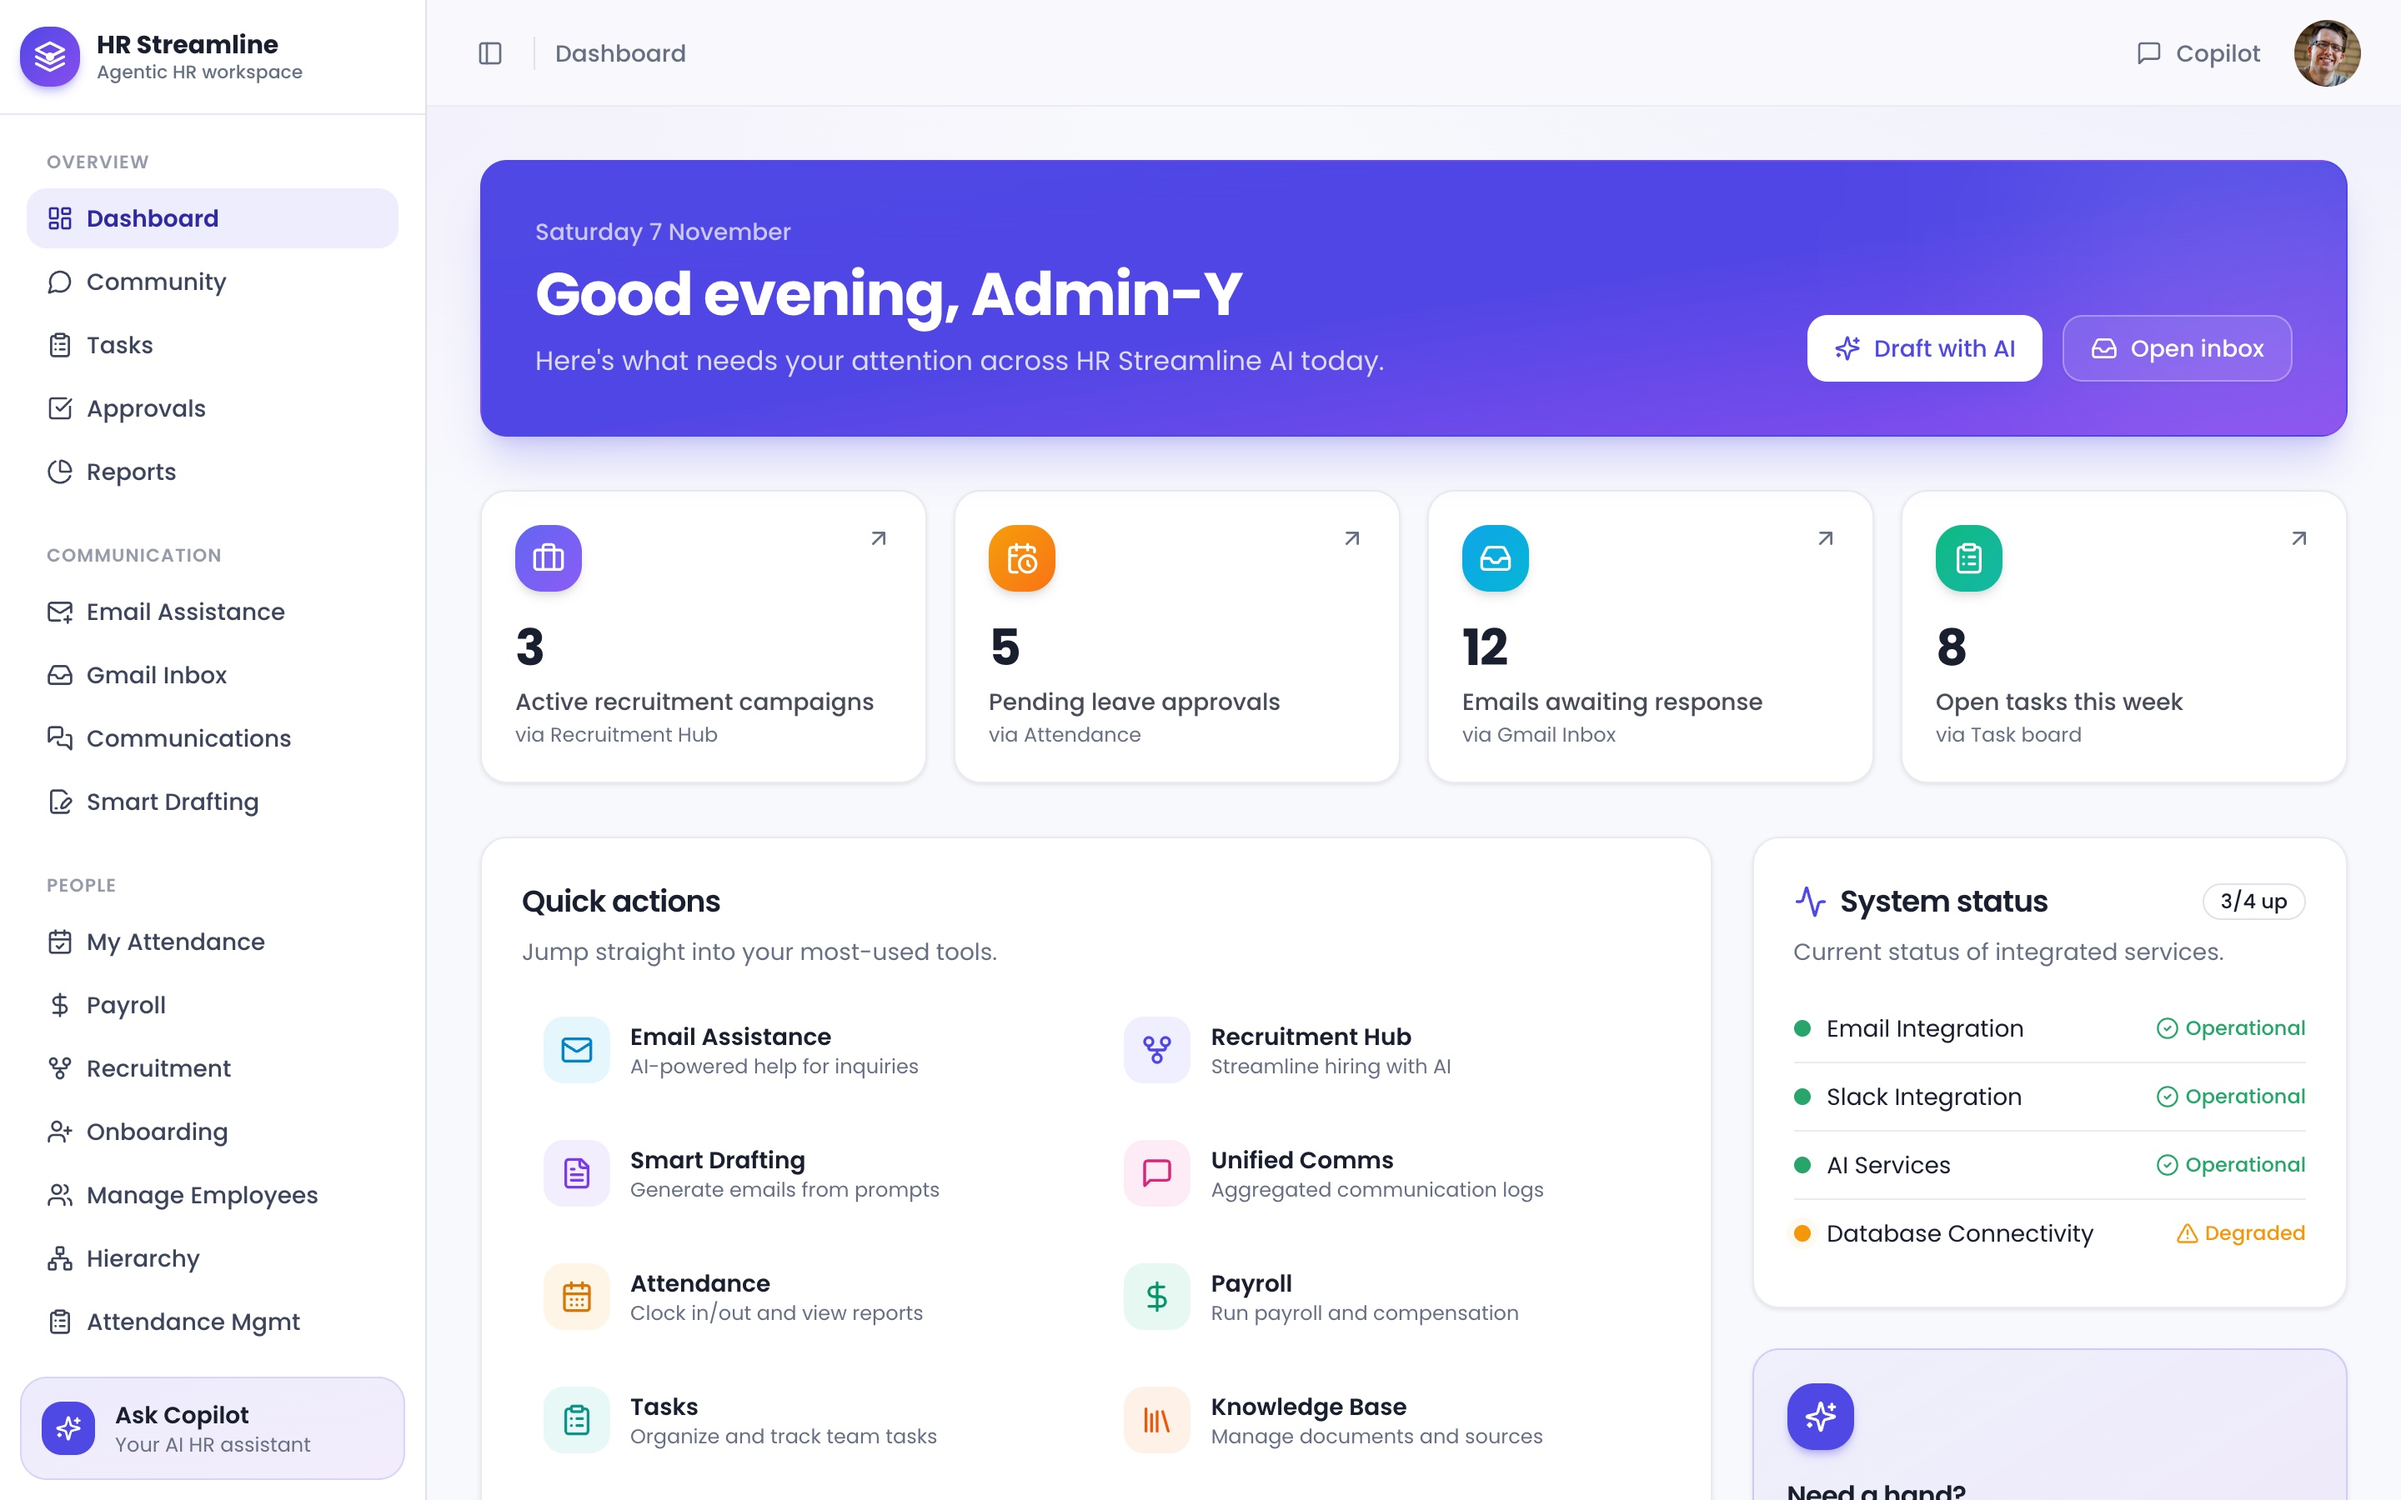
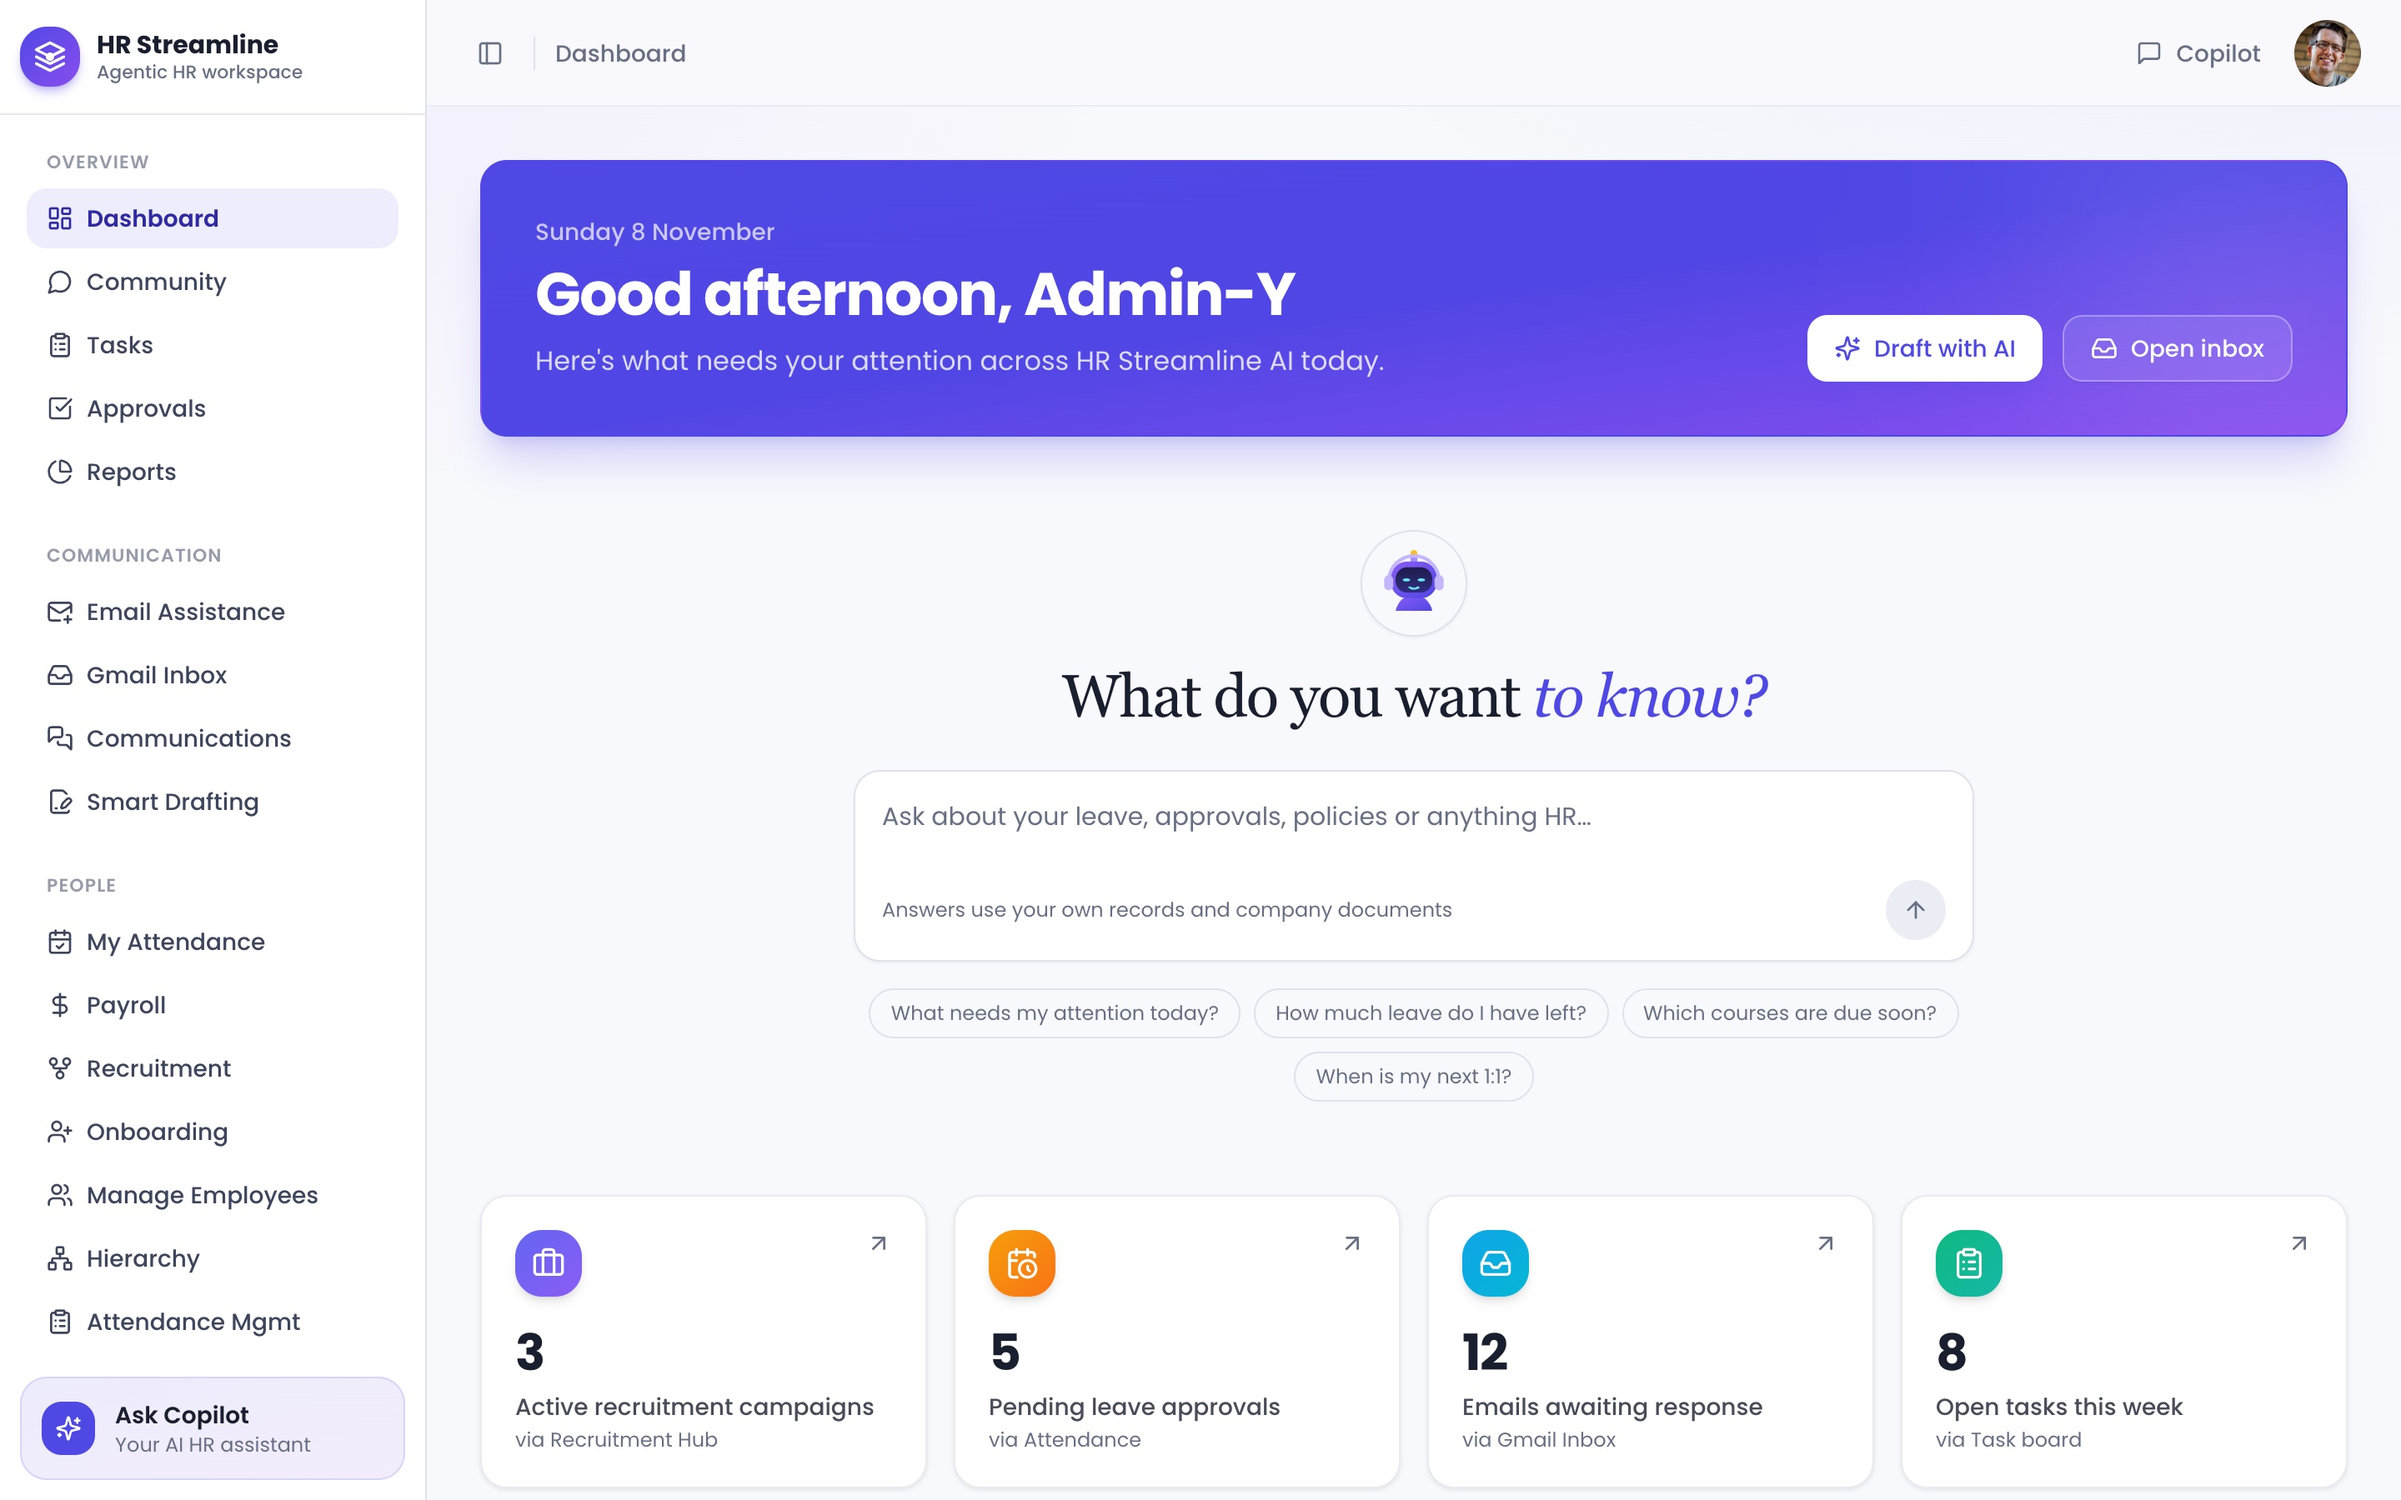
Add dashboard Copilot entry point and silver sidekick

diff --git a/src/app/dashboard/components/ask-copilot.tsx b/src/app/dashboard/components/ask-copilot.tsx
@@ -1,0 +1,79 @@
+'use client';
+
+import { useState, type KeyboardEvent } from 'react';
+import { ArrowUp } from 'lucide-react';
+import CopilotMascot from '@/components/copilot-mascot';
+import { COPILOT_STARTERS, askCopilot } from '@/lib/copilot-events';
+import { cn } from '@/lib/utils';
+
+/** The dashboard's question box: type a question (or pick a starter) and Copilot answers in its panel. */
+export default function AskCopilot() {
+  const [question, setQuestion] = useState('');
+  const send = (text: string) => {
+    const trimmed = text.trim();
+    if (!trimmed) return;
+    askCopilot(trimmed);
+    setQuestion('');
+  };
+  const onKey = (event: KeyboardEvent<HTMLTextAreaElement>) => {
+    if (event.key === 'Enter' && !event.shiftKey) {
+      event.preventDefault();
+      send(question);
+    }
+  };
+
+  return (
+    <section id="dashboard-ask-copilot" aria-labelledby="dashboard-ask-copilot-title" className="flex flex-col items-center px-2 py-4 text-center sm:py-6">
+      <span className="flex h-16 w-16 items-center justify-center rounded-full border bg-background shadow-sm">
+        <CopilotMascot className="h-14 w-11" />
+      </span>
+      <h2 id="dashboard-ask-copilot-title" className="mt-4 font-serif text-3xl font-normal tracking-tight text-foreground sm:text-4xl">
+        What do you want <em className="text-primary">to know?</em>
+      </h2>
+      <form
+        className="mt-6 w-full max-w-2xl rounded-2xl border bg-card text-left shadow-sm transition-shadow focus-within:border-primary/40 focus-within:shadow-lg focus-within:shadow-primary/10"
+        onSubmit={(event) => {
+          event.preventDefault();
+          send(question);
+        }}
+      >
+        <label htmlFor="dashboard-ask-copilot-input" className="sr-only">Ask Copilot</label>
+        <textarea
+          id="dashboard-ask-copilot-input"
+          rows={2}
+          maxLength={1000}
+          value={question}
+          onChange={(event) => setQuestion(event.target.value)}
+          onKeyDown={onKey}
+          placeholder="Ask about your leave, approvals, policies or anything HR…"
+          className="block w-full resize-none rounded-t-2xl bg-transparent px-4 pt-4 text-[15px] text-foreground placeholder:text-muted-foreground focus:outline-none"
+        />
+        <div className="flex items-center justify-between gap-3 px-4 pb-3 pt-1">
+          <p className="text-xs text-muted-foreground">Answers use your own records and company documents</p>
+          <button
+            id="dashboard-ask-copilot-send"
+            type="submit"
+            aria-label="Ask Copilot"
+            disabled={!question.trim()}
+            className={cn('flex h-9 w-9 shrink-0 items-center justify-center rounded-full transition-colors', question.trim() ? 'bg-primary text-primary-foreground hover:bg-primary/90' : 'bg-muted text-muted-foreground')}
+          >
+            <ArrowUp className="h-4 w-4" />
+          </button>
+        </div>
+      </form>
+      <div className="mt-4 flex max-w-2xl flex-wrap justify-center gap-2">
+        {COPILOT_STARTERS.map((starter, index) => (
+          <button
+            key={starter}
+            id={`dashboard-ask-copilot-starter-${index}`}
+            type="button"
+            onClick={() => send(starter)}
+            className="rounded-full border bg-background/60 px-3 py-1.5 text-xs text-muted-foreground transition-colors hover:border-primary/40 hover:text-foreground"
+          >
+            {starter}
+          </button>
+        ))}
+      </div>
+    </section>
+  );
+}

diff --git a/src/components/copilot-mascot.tsx b/src/components/copilot-mascot.tsx
@@ -1,0 +1,56 @@
+import { useId } from 'react';
+import { cn } from '@/lib/utils';
+
+/** The silver HR sidekick from the landing page, sized for Copilot entry points. */
+export default function CopilotMascot({ className }: { className?: string }) {
+  const id = useId();
+  const silver = `${id}-silver`;
+  const body = `${id}-body`;
+  const visor = `${id}-visor`;
+  const glow = `${id}-glow`;
+
+  return (
+    <svg viewBox="0 0 200 270" role="img" aria-label="HR Copilot" className={cn('h-12 w-12', className)}>
+      <defs>
+        <linearGradient id={silver} x1="0" y1="0" x2="1" y2="1">
+          <stop offset="0" stopColor="#ffffff" />
+          <stop offset="0.5" stopColor="#d8daea" />
+          <stop offset="1" stopColor="#969db9" />
+        </linearGradient>
+        <linearGradient id={body} x1="0" y1="0" x2="1" y2="1">
+          <stop offset="0" stopColor="#fafaff" />
+          <stop offset="0.65" stopColor="#c6cbdf" />
+          <stop offset="1" stopColor="#8b95b2" />
+        </linearGradient>
+        <linearGradient id={visor} x1="0" y1="0" x2="1" y2="1">
+          <stop offset="0" stopColor="#252a42" />
+          <stop offset="1" stopColor="#080b17" />
+        </linearGradient>
+        <filter id={glow} x="-150%" y="-100%" width="400%" height="300%">
+          <feGaussianBlur stdDeviation="4" />
+        </filter>
+      </defs>
+      <path d="M100 15v25" stroke="#c4c9dc" strokeWidth="5" />
+      <circle cx="100" cy="12" r="6.5" fill="#b7a6ff" />
+      <rect x="18" y="35" width="164" height="126" rx="48" fill={`url(#${silver})`} />
+      <rect x="33" y="55" width="134" height="74" rx="28" fill={`url(#${visor})`} />
+      <g fill="#a5b4fc" filter={`url(#${glow})`}>
+        <rect x="75" y="81" width="10" height="21" rx="5" />
+        <rect x="114" y="81" width="10" height="21" rx="5" />
+      </g>
+      <g fill="#c4d4ff">
+        <rect x="75" y="81" width="10" height="21" rx="5" />
+        <rect x="114" y="81" width="10" height="21" rx="5" />
+      </g>
+      <rect x="90" y="138" width="20" height="5" rx="2.5" fill="#858da9" />
+      <rect x="37" y="168" width="126" height="88" rx="30" fill={`url(#${body})`} />
+      <rect x="4" y="178" width="23" height="62" rx="12" transform="rotate(15 15.5 209)" fill={`url(#${silver})`} />
+      <rect x="173" y="178" width="23" height="62" rx="12" transform="rotate(-15 184.5 209)" fill={`url(#${silver})`} />
+      <g transform="translate(87 199) scale(1.08)" fill="none" stroke="#5e5790" strokeWidth="2" strokeLinecap="round" strokeLinejoin="round">
+        <path d="m12 3 1.9 5.8a2 2 0 0 0 1.3 1.3L21 12l-5.8 1.9a2 2 0 0 0-1.3 1.3L12 21l-1.9-5.8a2 2 0 0 0-1.3-1.3L3 12l5.8-1.9a2 2 0 0 0 1.3-1.3L12 3Z" />
+        <path d="M20 2v4m-2-2h4M4 18v3m-1.5-1.5h3" />
+      </g>
+      <rect x="90" y="241" width="20" height="3" rx="1.5" fill="#5bcaad" />
+    </svg>
+  );
+}

diff --git a/src/components/layout/copilot-sidebar.tsx b/src/components/layout/copilot-sidebar.tsx
@@ -9,6 +9,7 @@ import { ScrollArea } from '@/components/ui/scroll-area';
 import { Avatar, AvatarFallback, AvatarImage } from '@/components/ui/avatar';
 import { Loader2, MessageSquare, Send, User, Bot, Lock, BookOpen } from 'lucide-react';
 import { fetchKnowledgeContext } from '@/lib/knowledge-client';
+import { COPILOT_STARTERS } from '@/lib/copilot-events';
 import { chatWithCopilot, type CopilotChatInput, type CopilotChatOutput } from '@/ai/flows/copilot-chat-flow';
 import { useToast } from '@/hooks/use-toast';
 import { useAuth } from '@/contexts/auth-context';
@@ -16,6 +17,9 @@ import { useAuth } from '@/contexts/auth-context';
 interface CopilotSidebarProps {
   isOpen: boolean;
   onOpenChange: (open: boolean) => void;
+  /** A question asked from elsewhere (e.g. the dashboard); sent once the panel opens. */
+  pendingQuestion?: string | null;
+  onPendingHandled?: () => void;
 }
 
 interface ChatMessage {
@@ -29,9 +33,7 @@ interface ChatMessage {
   sources?: string[];
 }
 
-const COPILOT_STARTERS = ['What needs my attention today?', 'How much leave do I have left?', 'Which courses are due soon?', 'When is my next 1:1?'];
-
-export default function CopilotSidebar({ isOpen, onOpenChange }: CopilotSidebarProps) {
+export default function CopilotSidebar({ isOpen, onOpenChange, pendingQuestion, onPendingHandled }: CopilotSidebarProps) {
   const [userInput, setUserInput] = useState('');
   const [chatHistory, setChatHistory] = useState<ChatMessage[]>([]);
   const [isLoading, setIsLoading] = useState(false);
@@ -127,6 +129,13 @@ export default function CopilotSidebar({ isOpen, onOpenChange }: CopilotSidebarP
       }
     }
   };
+
+  useEffect(() => {
+    if (!isOpen || !pendingQuestion || isLoading) return;
+    onPendingHandled?.();
+    void handleSendMessage(undefined, pendingQuestion);
+    // eslint-disable-next-line react-hooks/exhaustive-deps -- send once per question
+  }, [isOpen, pendingQuestion]);
 
   return (
     <Sheet open={isOpen} onOpenChange={onOpenChange}>

diff --git a/src/components/layout/app-layout.tsx b/src/components/layout/app-layout.tsx
@@ -21,6 +21,7 @@ import Link from 'next/link';
 import { Loader2, MessageSquare, Sparkles } from 'lucide-react';
 import CopilotSidebar from './copilot-sidebar'; // Adjusted path if needed
 import MobileTabBar from './mobile-tab-bar';
+import { COPILOT_ASK_EVENT } from '@/lib/copilot-events';
 import { useState, useEffect } from 'react';
 import { Button } from '@/components/ui/button';
 import AccountStatusOverlay from '@/components/account-status-overlay';
@@ -33,6 +34,15 @@ export default function AppLayout({ children }: { children: ReactNode }) {
   const pathname = usePathname();
   const { user, isLoading, isAuthenticated } = useAuth();
   const [isCopilotOpen, setIsCopilotOpen] = useState(false);
+  const [pendingQuestion, setPendingQuestion] = useState<string | null>(null);
+  useEffect(() => {
+    const onAsk = (event: Event) => {
+      setPendingQuestion((event as CustomEvent<string>).detail);
+      setIsCopilotOpen(true);
+    };
+    window.addEventListener(COPILOT_ASK_EVENT, onAsk);
+    return () => window.removeEventListener(COPILOT_ASK_EVENT, onAsk);
+  }, []);
   const router = useRouter();
 
   // This effect handles redirecting unauthenticated users from protected pages.
@@ -123,7 +133,7 @@ export default function AppLayout({ children }: { children: ReactNode }) {
             <MaintenanceGate>{children}</MaintenanceGate>
           </div>
         </main>
-        <CopilotSidebar isOpen={isCopilotOpen} onOpenChange={setIsCopilotOpen} />
+        <CopilotSidebar isOpen={isCopilotOpen} onOpenChange={setIsCopilotOpen} pendingQuestion={pendingQuestion} onPendingHandled={() => setPendingQuestion(null)} />
         <MobileTabBar onCopilot={() => setIsCopilotOpen(true)} />
       </SidebarInset>
       <AppTour />

diff --git a/src/lib/copilot-events.ts b/src/lib/copilot-events.ts
@@ -1,0 +1,8 @@
+/** Lets any page open the Copilot panel with a question already asked. */
+export const COPILOT_ASK_EVENT = 'copilot:ask';
+
+export const COPILOT_STARTERS = ['What needs my attention today?', 'How much leave do I have left?', 'Which courses are due soon?', 'When is my next 1:1?'];
+
+export function askCopilot(question: string) {
+  window.dispatchEvent(new CustomEvent<string>(COPILOT_ASK_EVENT, { detail: question }));
+}

diff --git a/src/app/dashboard/page.tsx b/src/app/dashboard/page.tsx
@@ -2,6 +2,7 @@
 
 import { useMemo } from 'react';
 import Link from 'next/link';
+import AskCopilot from './components/ask-copilot';
 import {
   ArrowRight,
   ArrowUpRight,
@@ -134,6 +135,8 @@ export default function DashboardPage() {
           </div>
         </div>
       </section>
+
+      <AskCopilot />
 
       {/* KPI tiles */}
       <section className="grid grid-cols-1 gap-4 sm:grid-cols-2 xl:grid-cols-4">
